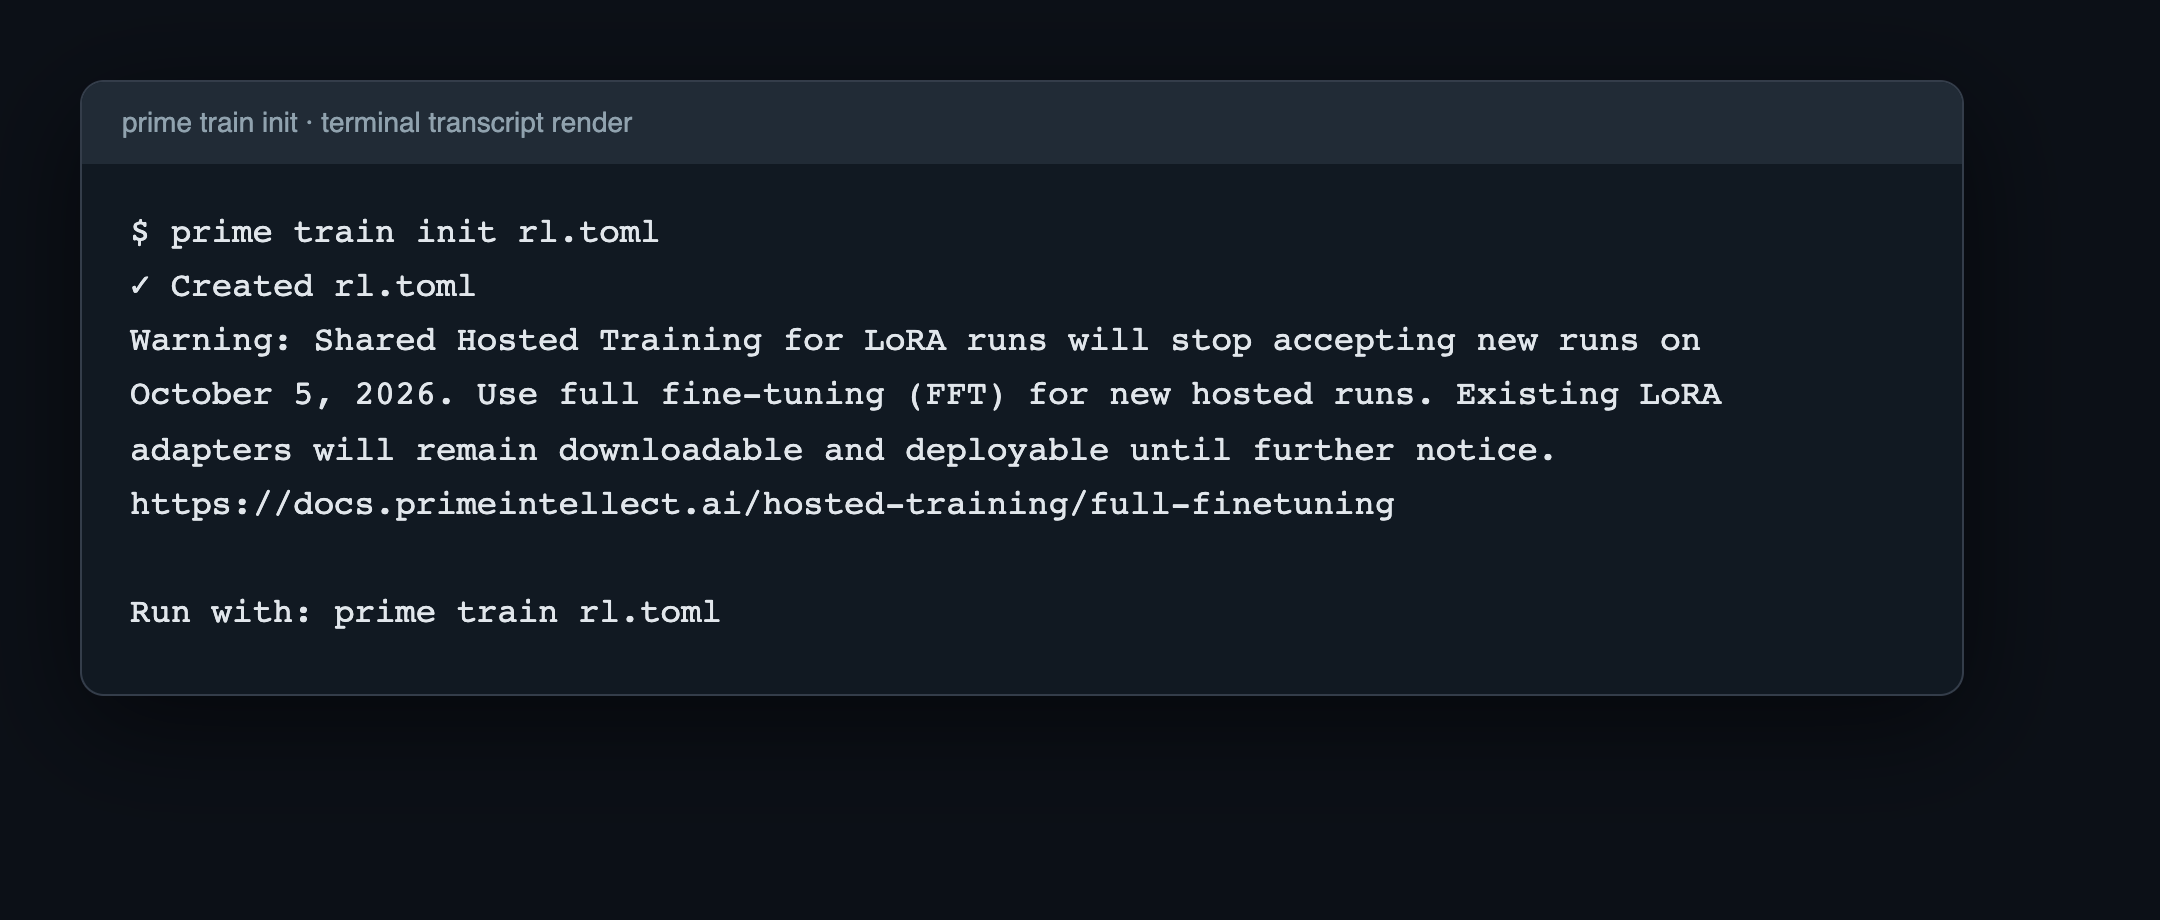
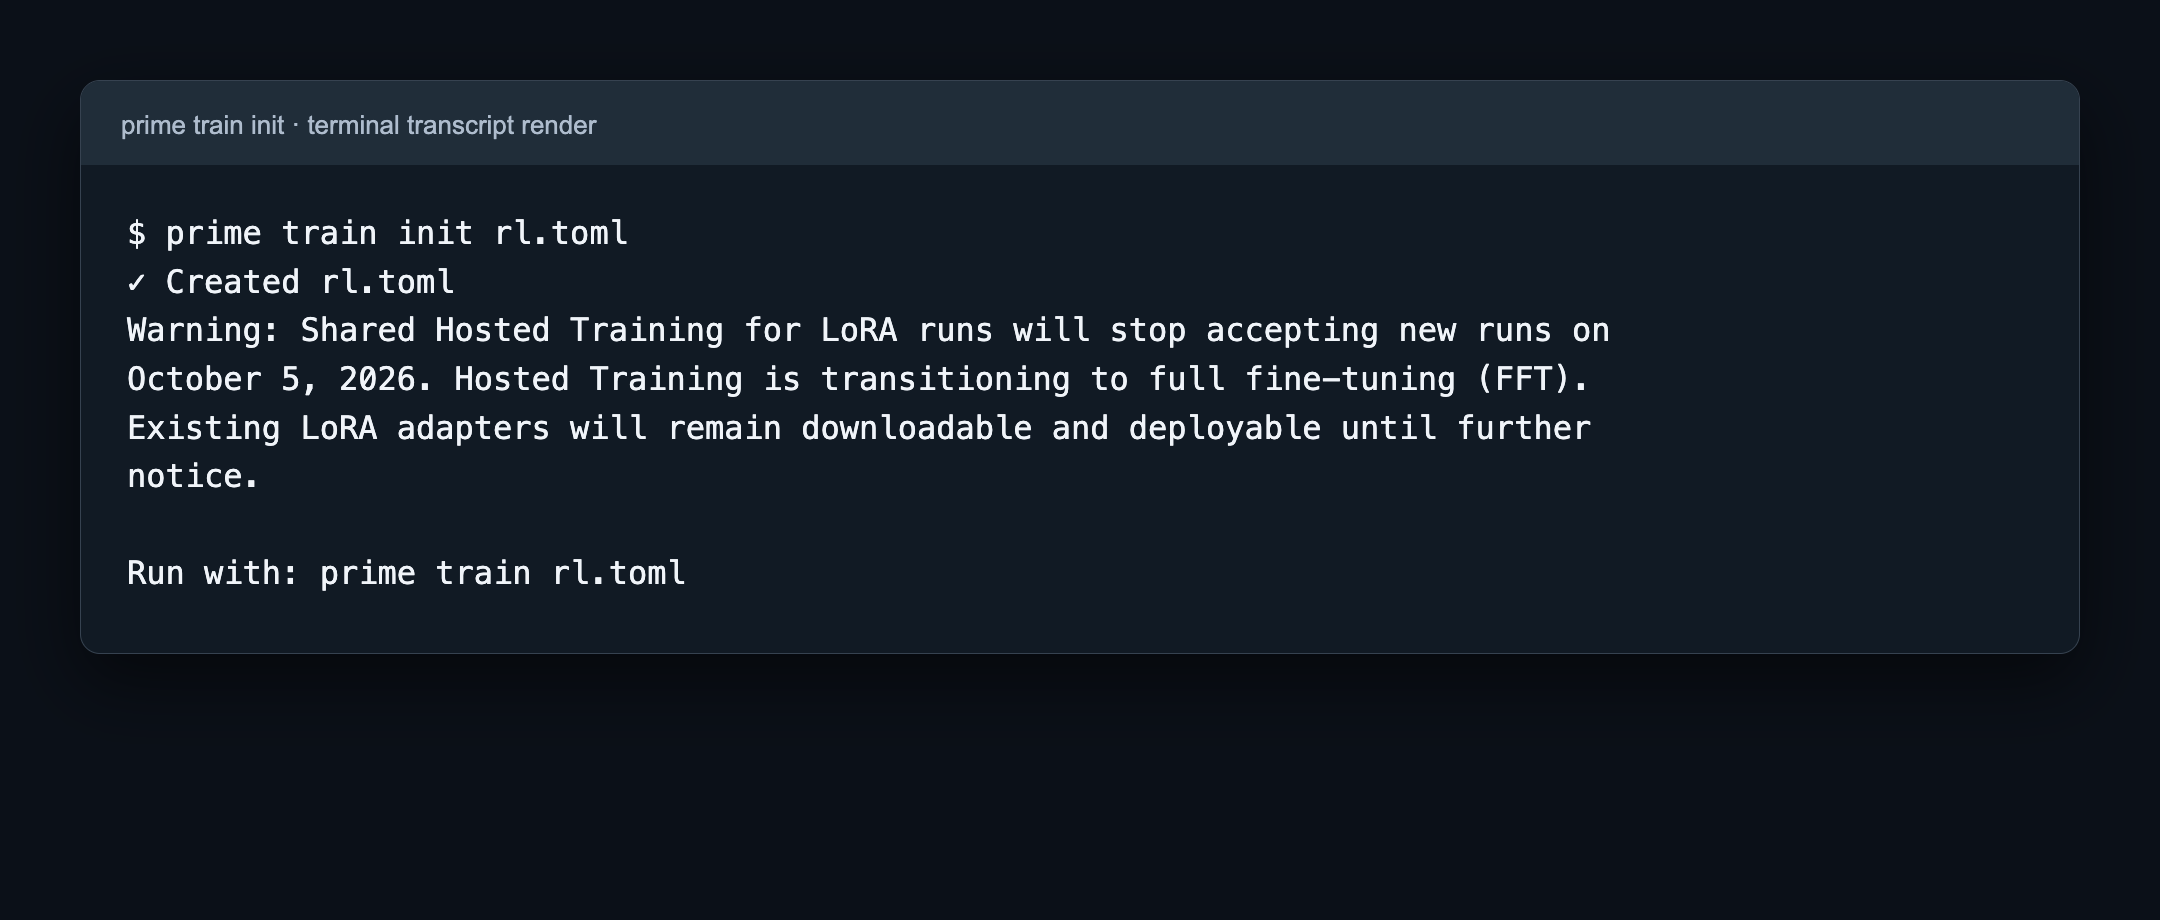
clarify hosted fft transition in legacy cli notice

diff --git a/packages/prime/src/prime_cli/commands/rl.py b/packages/prime/src/prime_cli/commands/rl.py
@@ -45,10 +45,9 @@ console = get_console()
 
 LEGACY_TRAINING_NOTICE = (
     "Shared Hosted Training for LoRA runs will stop accepting new runs on October 5, 2026. "
-    "Use full fine-tuning (FFT) for new hosted runs. "
+    "Hosted Training is transitioning to full fine-tuning (FFT). "
     "Existing LoRA adapters will remain downloadable and deployable until further notice."
 )
-FULL_FINETUNING_DOCS_URL = "https://docs.primeintellect.ai/hosted-training/full-finetuning"
 
 V1_ENV_CONFIG_FIELDS = (
     "taskset",
@@ -248,8 +247,7 @@ def generate_rl_config_template(environment: str | None = None) -> str:
 
     return f'''\
 # Shared Hosted Training for LoRA runs will stop accepting new runs on October 5, 2026.
-# Use full fine-tuning (FFT) for new hosted runs:
-# https://docs.primeintellect.ai/hosted-training/full-finetuning
+# Hosted Training is transitioning to full fine-tuning (FFT).
 # Existing LoRA adapters will remain downloadable and deployable until further notice.
 model = "Qwen/Qwen3.5-0.8B"
 loss = "rl" # "rl" | "sft"; OPD is not yet supported on hosted runtimes
@@ -1525,12 +1523,9 @@ def create_run(
     console.print(f"[dim]Loading config from {config_path}[/dim]\n")
     cfg = load_config(config_path)
     if output == "json":
-        typer.echo(f"Warning: {LEGACY_TRAINING_NOTICE} {FULL_FINETUNING_DOCS_URL}", err=True)
+        typer.echo(f"Warning: {LEGACY_TRAINING_NOTICE}", err=True)
     else:
-        console.print(
-            f"[yellow]Warning:[/yellow] {LEGACY_TRAINING_NOTICE} "
-            f"[link={FULL_FINETUNING_DOCS_URL}]{FULL_FINETUNING_DOCS_URL}[/link]\n"
-        )
+        console.print(f"[yellow]Warning:[/yellow] {LEGACY_TRAINING_NOTICE}\n")
 
     # Collect secrets from all sources
     def warn(msg: str) -> None:
@@ -2998,7 +2993,6 @@ def init_config(
 
     console.print(f"[green]✓[/green] Created {output_path}")
     console.print(f"[yellow]Warning:[/yellow] {LEGACY_TRAINING_NOTICE}")
-    console.print(f"[link={FULL_FINETUNING_DOCS_URL}]{FULL_FINETUNING_DOCS_URL}[/link]")
     console.print(f"\n[dim]Run with:[/dim] prime train {output_path}")
 
 

diff --git a/packages/prime/tests/test_train_cli.py b/packages/prime/tests/test_train_cli.py
@@ -64,9 +64,13 @@ def test_train_init_defaults_to_rl_toml() -> None:
         assert "Run with: prime train rl.toml" in result.output
         assert "stop accepting new runs on" in result.output
         assert "October 5, 2026" in result.output
-        assert "https://docs.primeintellect.ai/hosted-training/full-finetuning" in result.output
+        assert "Hosted Training is transitioning to full fine-tuning (FFT)." in result.output
         assert Path("rl.toml").exists()
         assert "stop accepting new runs on October 5, 2026" in Path("rl.toml").read_text()
+        assert (
+            "# Hosted Training is transitioning to full fine-tuning (FFT)."
+            in Path("rl.toml").read_text()
+        )
 
 
 def test_train_legacy_run_warns_before_confirmation_without_warning_fft(
@@ -92,6 +96,7 @@ def test_train_legacy_run_warns_before_confirmation_without_warning_fft(
     assert result.exit_code == 0, result.output
     assert "stop accepting new runs on" in result.output
     assert "October 5, 2026" in result.output
+    assert "Hosted Training is transitioning to full fine-tuning (FFT)." in result.output
     assert result.output.index("stop accepting new runs") < result.output.index("Configuration:")
     assert seen == ["confirm"]
 
@@ -119,6 +124,7 @@ def test_train_legacy_json_warning_uses_stderr(monkeypatch, tmp_path: Path) -> N
     result = runner.invoke(app, ["train", str(config), "--output", "json"], env=TEST_ENV)
     assert result.exit_code == 0, result.output
     assert "stop accepting new runs on October 5, 2026" in result.stderr
+    assert "Hosted Training is transitioning to full fine-tuning (FFT)." in result.stderr
     assert "stop accepting new runs" not in result.stdout
 
 
